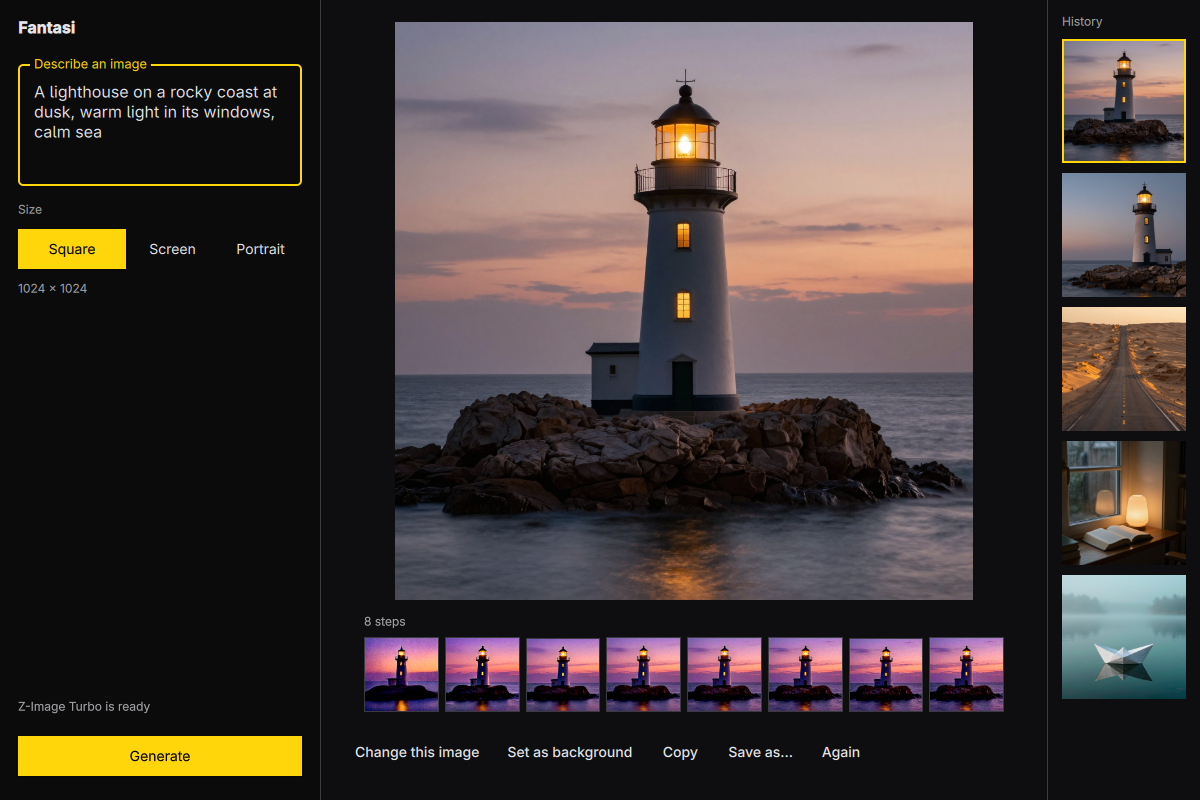
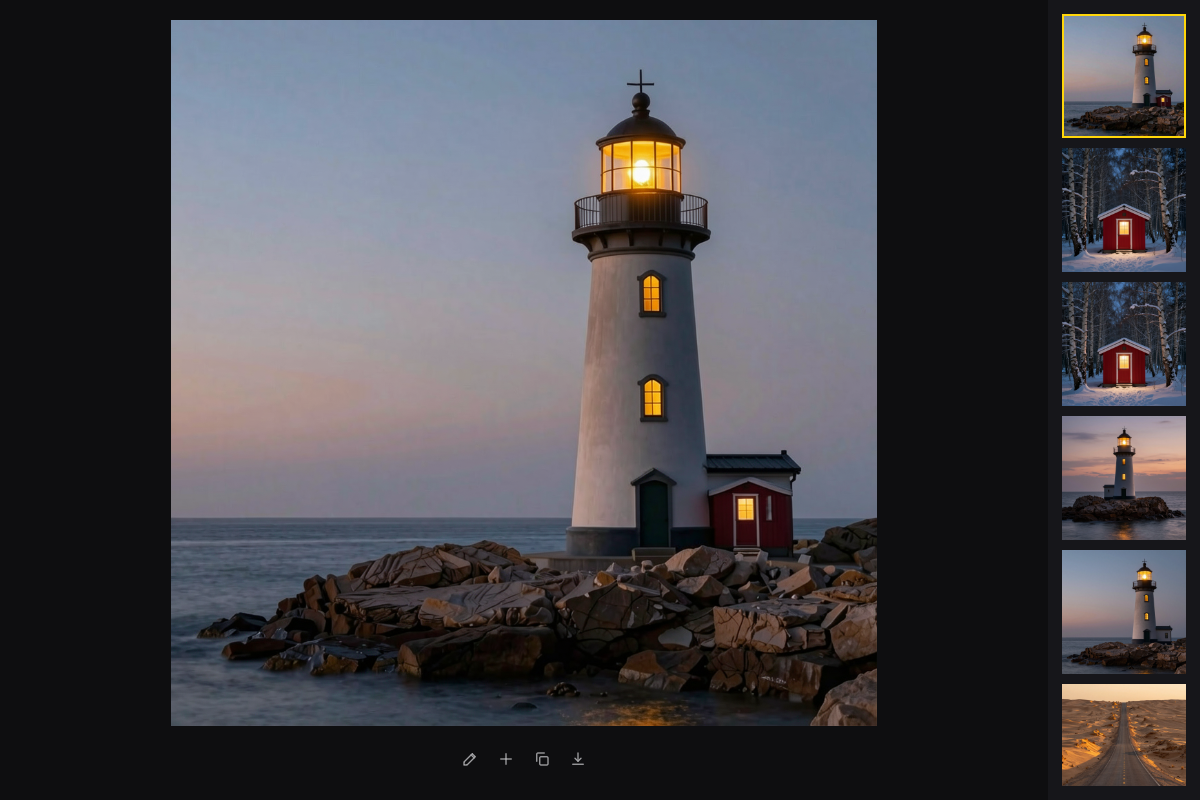
Make the README simpler, with a screenshot of Fantasi as it is now

diff --git a/README.md b/README.md
@@ -1,68 +1,34 @@
 # Fantasi
 
-Make images on your own machine with a local model, the way Omarchy runs them.
+Make images on your own machine with Omarchy's local image models.
 
-![Fantasi making a lighthouse at dusk, with the eight steps it took under the image and earlier images in the history](docs/screenshot.png)
+![Fantasi showing a lighthouse with a red cabin beside it, the actions under it and earlier images in the history](docs/screenshot.png)
 
-Describe an image, pick a size, and watch it sharpen step by step. Then change it: the next image starts from this one, keeping its composition while your prompt moves it. Or start from a picture of your own: open one, or drop it on the window. Every image lands in `~/Pictures/Generated` with its prompt and seed inside, so the history can show it again and make it again.
+Describe an image and watch it sharpen. Then change it by saying what should change, start from a picture of your own, or combine up to four. Every image is kept in `~/Pictures/Generated` with its prompt.
 
-## Where the model comes from
-
-Fantasi runs nothing itself. It asks [omarchy-local-ai](https://github.com/omacom/omarchy-local-ai), which runs Omarchy's local models, and follows what it says:
-
-- An image model is running: Fantasi uses it.
-- One is set up but stopped: Fantasi offers to start it.
-- It is stopped because a text model holds the memory it needs: Fantasi offers to stop that model and start it.
-- None is set up, but one runs on this machine: Fantasi offers to install it.
-- None runs here: Fantasi says so, and why.
+Fantasi uses the image model [omarchy-local-ai](https://github.com/omacom/omarchy-local-ai) runs, and offers to start or set one up when none is running.
 
 ## Shortcuts
 
-The prompt has the keyboard most of the time, so the shortcuts take Ctrl.
-
 | Keys | Action |
 | --- | --- |
-| Enter | Make the image (Shift+Enter for a new line) |
-| Esc | Stop making it, or go back to a new image |
-| Ctrl+R | Make another like it |
-| Ctrl+E | Change it: the next image starts from it |
-| Ctrl+N | Start a new image |
-| Ctrl+O | Start from a picture of your own |
+| Enter | Make the image |
+| Esc | Stop, or go back |
+| Ctrl+E | Change it |
+| Ctrl+N | New image |
+| Ctrl+O | Add a picture |
 | Ctrl+1, 2, 3 | Screen, square or portrait |
 | Ctrl+B | Show or hide the history |
-| Ctrl+Shift+C | Copy it |
-| Ctrl+S | Save a copy somewhere else |
-| Ctrl+Up, Ctrl+Down | Move through the history |
-| Ctrl+Delete | Move it to the trash |
-| F1 | Show or hide the shortcuts |
-| Ctrl+Q | Quit |
-
-Double-click an image in the history to take its prompt back into the panel.
+| F1 | All shortcuts |
 
 ## Command line
 
 ```sh
-fantasi                                  # open the window
-fantasi open "a calm lake at dusk"       # open it with a prompt
-fantasi open --model flux2-klein-4b-sdcpp  # open it on that model, when it runs
-fantasi generate "a calm lake at dusk" --width 1344 --height 768 --json
-fantasi generate "the same lake under snow" --from ~/Pictures/Generated/lake.png
-fantasi generate "the cabin from the first beside the lighthouse from the second" --from cabin.png --from lighthouse.png
-fantasi skill install                    # teach your coding agents to make images
-```
-
-`fantasi generate` needs no display: it makes one image, prints where it saved it, and exits 0, or says why not on stderr and exits 1.
-
-## Building
-
-Fantasi is C++ and Qt Quick, built with CMake into one binary.
-
-```sh
-bin/build                               # build into build/
-bin/test                                # build, then run the tests offscreen
-cmake --install build --prefix ~/.local # try it in the app launcher
+fantasi generate "a calm lake at dusk"
+fantasi generate "make it night" --from lake.png
+fantasi skill install    # teach your coding agents to make images
 ```
 
 ## License
 
-Fantasi is released under the [MIT License](LICENSE). Its save dialog follows [Omacut](https://github.com/omacom/omacut)'s portal file picker (MIT).
+MIT.
